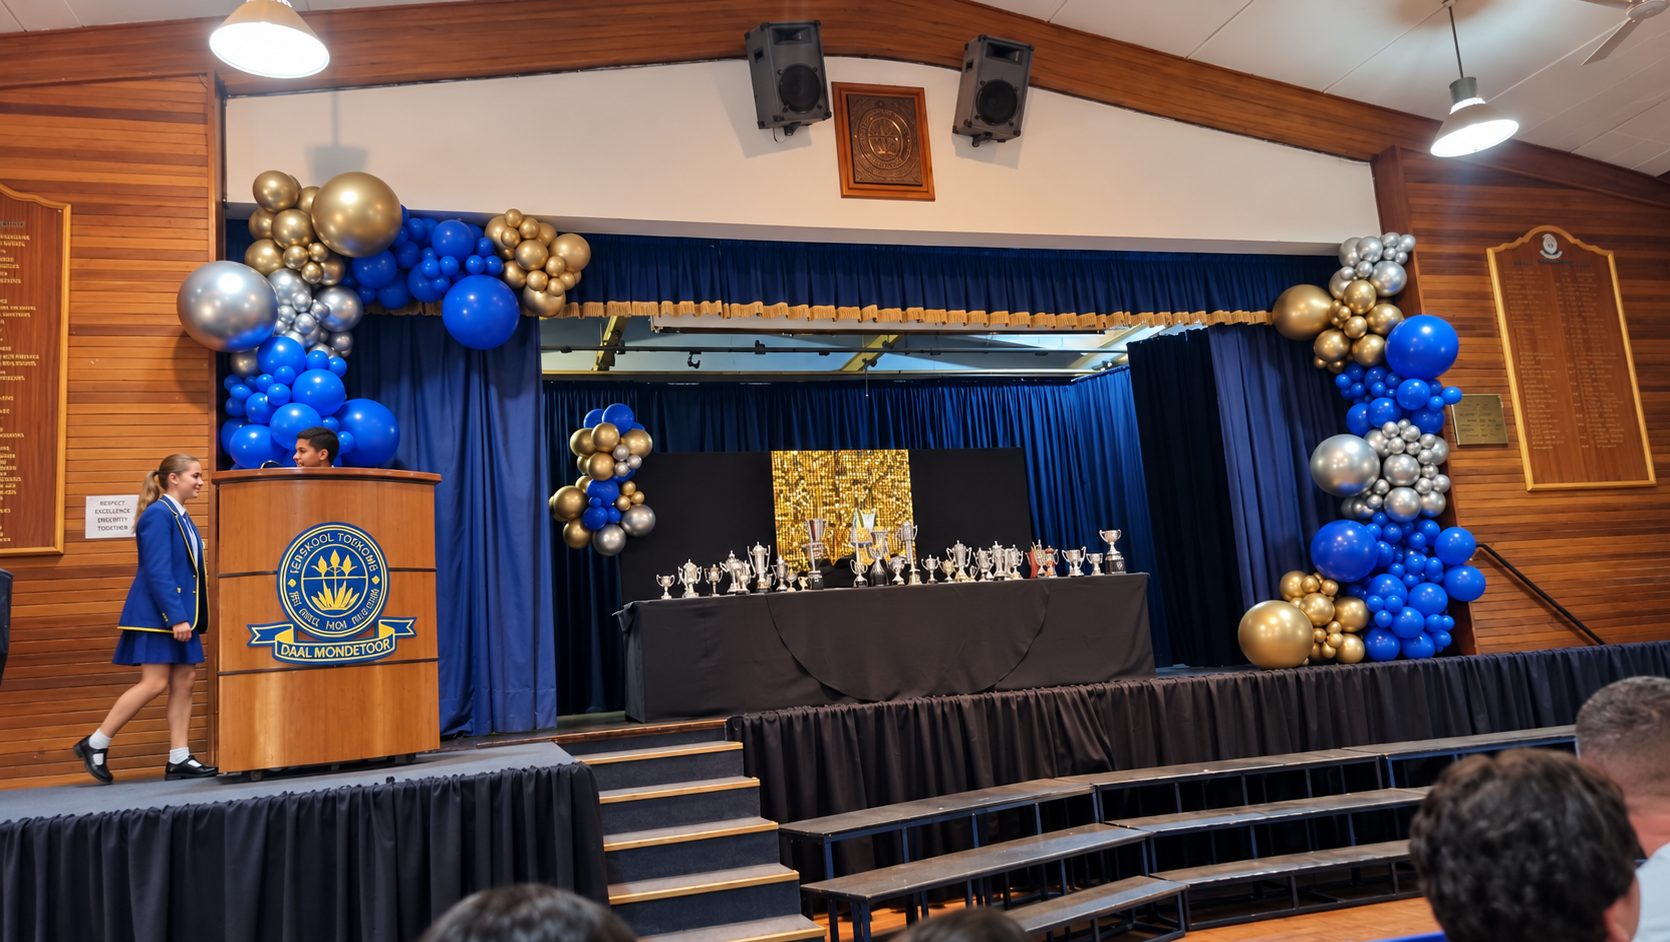
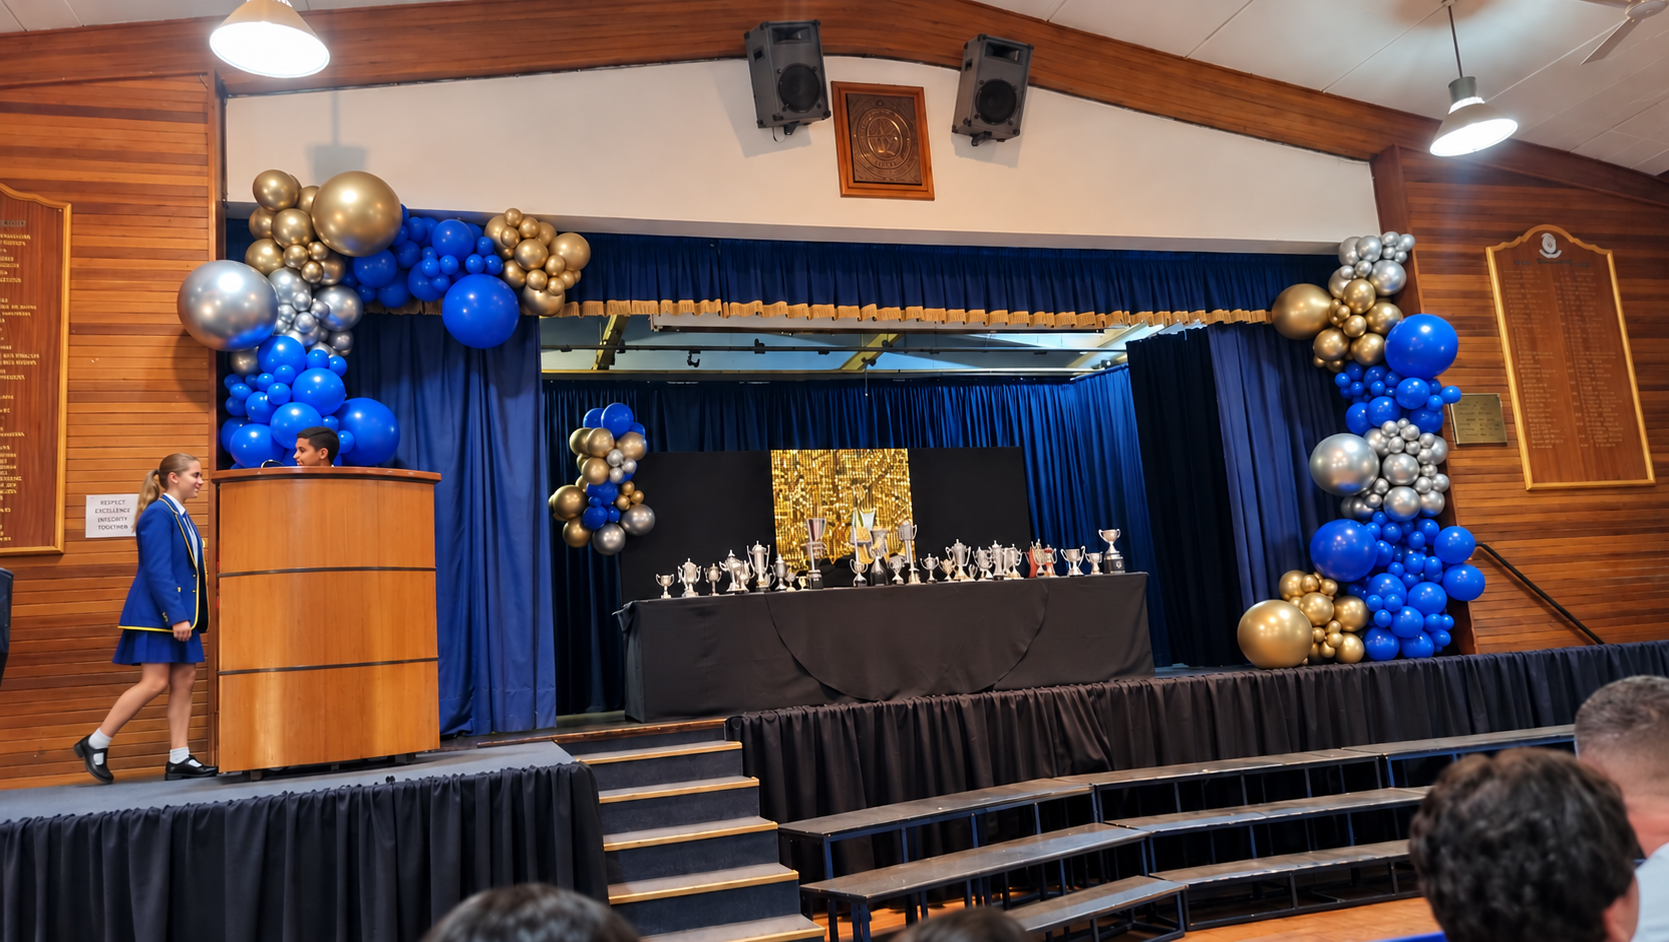
Add team carousel and live school news

diff --git a/styles.css b/styles.css
@@ -42,11 +42,128 @@
 @media(max-width:760px){.hero-kids-framed{height:465px;width:355px;right:50%;bottom:20px;object-fit:cover;object-position:center 45%;border-width:7px;border-radius:46% 46% 22px 22px;transform:translateX(50%)}}
 @media(max-width:430px){.hero-kids-framed{height:410px;width:315px}}
 
-.round-stamp strong{width:100%;place-items:center;transform:none;white-space:nowrap}
-.round-stamp strong small{display:block;white-space:nowrap;text-align:center}
+.round-stamp strong{width:100%;place-items:center;transform:translateX(-8px);white-space:nowrap;font-size:.98rem}
+.round-stamp strong small{display:block;white-space:nowrap;text-align:center;font-size:.58rem}
 .round-stamp span{animation:spin 8s linear infinite}
 @media(prefers-reduced-motion:reduce){.round-stamp span{animation:none}}
+@media(max-width:760px){.round-stamp strong{transform:translateX(-6px);font-size:.8rem}.round-stamp strong small{font-size:.48rem}}
 
 /* Highlight the card that matches the current activity image. */
 .activity-card.is-active{z-index:2;transform:translateX(-7px);box-shadow:0 0 0 4px #fff,0 0 0 8px var(--navy),0 18px 34px rgba(7,52,95,.2)}
 @media(max-width:1000px){.activity-card.is-active{transform:translateY(-5px)}}
+
+/* Meet the Team carousel */
+.team-section{position:relative;overflow:hidden;background:linear-gradient(145deg,#f2f8ff 0%,#fff 48%,#fff8dc 100%);padding-block:110px 95px}
+.team-section .wrap{position:relative;z-index:2}
+.team-heading{display:grid;grid-template-columns:1fr .7fr;gap:70px;align-items:end}
+.team-heading h2 em{color:var(--blue)}
+.team-heading>p{max-width:470px;margin:0 0 8px;color:var(--muted);font-size:1rem;line-height:1.7}
+.team-shape{position:absolute;border-radius:50%;pointer-events:none}
+.team-shape-one{width:320px;height:320px;left:-170px;top:100px;border:3px dashed rgba(18,130,205,.22);animation:spin 30s linear infinite}
+.team-shape-two{width:210px;height:210px;right:-85px;bottom:20px;background:rgba(255,217,41,.28)}
+.team-carousel{position:relative;max-width:1120px;margin:48px auto 0}
+.team-stage{position:relative;height:510px;perspective:1000px;touch-action:pan-y}
+.team-card{position:absolute;left:50%;top:50%;width:300px;height:400px;overflow:hidden;border:7px solid #fff;border-radius:30px;background:var(--navy);opacity:0;transform:translate(-50%,-50%) scale(.55);box-shadow:0 22px 50px rgba(7,52,95,.18);transition:transform .75s cubic-bezier(.2,.75,.2,1),opacity .45s,filter .45s;pointer-events:none;will-change:transform}
+.team-card img{width:100%;height:100%;object-fit:cover;transition:transform 5s ease}
+.team-card:before{content:"";position:absolute;z-index:1;inset:38% 0 0;background:linear-gradient(transparent,rgba(7,35,66,.9))}
+.team-card.is-active{z-index:3;opacity:1;transform:translate(-50%,-50%) scale(1.08);pointer-events:auto;box-shadow:0 0 0 5px var(--yellow),0 32px 70px rgba(7,52,95,.26)}
+.team-card.is-prev{z-index:2;opacity:.76;transform:translate(calc(-50% - 340px),-50%) scale(.79) rotate(-3deg);filter:saturate(.82);pointer-events:auto;cursor:pointer}
+.team-card.is-next{z-index:2;opacity:.76;transform:translate(calc(-50% + 340px),-50%) scale(.79) rotate(3deg);filter:saturate(.82);pointer-events:auto;cursor:pointer}
+.team-card.is-active:hover img{transform:scale(1.045)}
+.team-card-copy{position:absolute;z-index:2;left:0;right:0;bottom:0;padding:55px 22px 22px;color:#fff}
+.team-card-copy small{display:block;margin-bottom:4px;color:var(--yellow);font-size:.65rem;font-weight:900;letter-spacing:.12em;text-transform:uppercase}
+.team-card-copy h3{margin:0;font:700 1.55rem/1.05 "Fredoka",sans-serif}
+.team-card.is-active .team-card-copy h3{font-size:1.85rem}
+.team-featured{position:absolute;z-index:3;left:16px;top:16px;padding:8px 11px;border-radius:999px;background:var(--yellow);color:var(--navy);font-size:.6rem;font-weight:900;letter-spacing:.08em;text-transform:uppercase}
+.team-arrow{position:absolute;z-index:5;top:46%;width:52px;height:52px;border:0;border-radius:50%;background:var(--navy);color:#fff;font-size:1.35rem;cursor:pointer;box-shadow:0 12px 30px rgba(7,52,95,.2);transition:transform .25s,background .25s}
+.team-arrow:hover,.team-arrow:focus-visible{background:var(--blue);transform:scale(1.08)}
+.team-arrow:focus-visible{outline:4px solid var(--yellow);outline-offset:3px}
+.team-prev{left:8px}.team-next{right:8px}
+.team-dots{display:flex;justify-content:center;gap:9px;margin-top:5px}
+.team-dots button{width:10px;height:10px;padding:0;border:0;border-radius:999px;background:rgba(7,52,95,.25);cursor:pointer;transition:width .25s,background .25s}
+.team-dots button.is-active{width:32px;background:var(--blue)}
+.team-note{text-align:center;margin:14px 0 0;color:var(--muted);font-size:.72rem;font-weight:700}
+@media(max-width:900px){
+  .team-card.is-prev{transform:translate(calc(-50% - 245px),-50%) scale(.7) rotate(-3deg)}
+  .team-card.is-next{transform:translate(calc(-50% + 245px),-50%) scale(.7) rotate(3deg)}
+  .team-prev{left:0}.team-next{right:0}
+}
+@media(max-width:760px){
+  .team-section{padding-block:82px 75px}
+  .team-heading{grid-template-columns:1fr;gap:15px;text-align:center}
+  .team-heading>p{margin-inline:auto;font-size:.92rem}
+  .team-stage{height:440px}
+  .team-card{width:255px;height:350px;border-width:6px;border-radius:25px}
+  .team-card.is-active{transform:translate(-50%,-50%) scale(1.04)}
+  .team-card.is-prev{transform:translate(calc(-50% - 180px),-50%) scale(.62) rotate(-3deg)}
+  .team-card.is-next{transform:translate(calc(-50% + 180px),-50%) scale(.62) rotate(3deg)}
+  .team-arrow{top:auto;bottom:-2px;width:46px;height:46px}
+  .team-prev{left:calc(50% - 92px)}.team-next{right:calc(50% - 92px)}
+  .team-dots{margin-top:10px}
+}
+@media(max-width:430px){
+  .team-stage{height:405px}
+  .team-card{width:230px;height:325px}
+  .team-card.is-prev{transform:translate(calc(-50% - 145px),-50%) scale(.56) rotate(-3deg)}
+  .team-card.is-next{transform:translate(calc(-50% + 145px),-50%) scale(.56) rotate(3deg)}
+}
+@media(prefers-reduced-motion:reduce){
+  .team-shape-one{animation:none}.team-card,.team-card img{transition:none}
+}
+
+/* Live Facebook news */
+.facebook-news{position:relative;overflow:hidden;background:var(--navy);color:#fff;padding-bottom:0}
+.facebook-news-grid{position:relative;z-index:2;display:grid;grid-template-columns:.82fr 1.18fr;gap:90px;align-items:center;padding-bottom:105px}
+.facebook-news-copy{position:relative}
+.facebook-news-copy h2{color:#fff;font-size:clamp(3.4rem,5.7vw,5.7rem)}
+.facebook-news-copy h2 em{color:var(--yellow)}
+.facebook-news-copy>p:not(.section-tag):not(.news-live){max-width:540px;margin:26px 0;color:rgba(255,255,255,.7);font-size:1rem;line-height:1.75}
+.news-live{display:inline-flex;align-items:center;gap:9px;margin:0 0 25px;padding:8px 12px;border:1px solid rgba(255,255,255,.18);border-radius:999px;background:rgba(255,255,255,.08);font-size:.68rem;font-weight:900;letter-spacing:.08em;text-transform:uppercase}
+.news-live span,.feed-status i{width:8px;height:8px;border-radius:50%;background:#60dc93;box-shadow:0 0 0 5px rgba(96,220,147,.14);animation:pulseLive 1.8s ease-in-out infinite}
+.news-topics{display:flex;flex-wrap:wrap;gap:8px;margin:0 0 30px}
+.news-topics span{padding:8px 12px;border-radius:10px;background:rgba(87,201,220,.13);border:1px solid rgba(87,201,220,.22);color:#d7f8ff;font-size:.68rem;font-weight:900}
+.news-button{background:var(--yellow);color:var(--navy)}
+.facebook-feed-card{position:relative;max-width:580px;margin-left:auto;padding:16px;border-radius:34px;background:#fff;color:var(--ink);box-shadow:0 35px 85px rgba(0,0,0,.28);transform:rotate(1deg)}
+.facebook-feed-card:before{content:"";position:absolute;z-index:-1;inset:-13px 24px 18px -17px;border:2px dashed rgba(255,217,41,.8);border-radius:38px;transform:rotate(-2deg)}
+.facebook-feed-head{display:grid;grid-template-columns:auto 1fr auto;gap:13px;align-items:center;padding:7px 6px 16px}
+.facebook-mark{width:42px;height:42px;border-radius:13px;background:#1877f2;color:#fff;display:grid;place-items:center;font:800 1.65rem/1 Arial,sans-serif}
+.facebook-feed-head>div{display:grid;line-height:1.2}
+.facebook-feed-head small{color:var(--muted);font-size:.58rem;font-weight:900;letter-spacing:.12em;text-transform:uppercase}
+.facebook-feed-head strong{font:700 1rem "Fredoka",sans-serif;color:var(--navy)}
+.feed-status{display:flex;align-items:center;gap:8px;color:var(--muted);font-size:.62rem;font-weight:900;text-transform:uppercase}
+.feed-status i{display:inline-block;width:7px;height:7px;box-shadow:none}
+.facebook-feed-frame{position:relative;min-height:650px;overflow:hidden;border-radius:22px;background:linear-gradient(135deg,#eef5fb,#fff8e8)}
+.facebook-feed-frame iframe{display:block;width:100%;max-width:500px;min-height:650px;margin-inline:auto;border:0}
+.facebook-feed-card>p{margin:13px 8px 3px;color:var(--muted);text-align:center;font-size:.68rem}
+.facebook-feed-card>p a{color:var(--blue);font-weight:900}
+.news-orbit{position:absolute;border-radius:50%;pointer-events:none}
+.news-orbit-one{width:390px;height:390px;left:-205px;bottom:30px;border:2px dashed rgba(255,255,255,.14);animation:spin 32s linear infinite}
+.news-orbit-two{width:260px;height:260px;right:-105px;top:50px;background:rgba(8,111,194,.25)}
+.news-ticker{position:relative;z-index:2;overflow:hidden;background:var(--yellow);color:var(--navy);padding:18px 0;transform:rotate(-1deg);width:102%;margin-left:-1%}
+.news-ticker>div{display:flex;width:max-content;animation:marquee 26s linear infinite}
+.news-ticker span{padding-right:25px;white-space:nowrap;font:700 1rem "Fredoka",sans-serif;letter-spacing:.06em}
+@keyframes pulseLive{50%{opacity:.55;transform:scale(.78)}}
+@media(max-width:1000px){
+  .facebook-news-grid{grid-template-columns:1fr 1fr;gap:45px}
+  .facebook-feed-card{max-width:530px}
+}
+@media(max-width:760px){
+  .facebook-news-grid{grid-template-columns:1fr;gap:50px;padding-bottom:75px}
+  .facebook-news-copy{text-align:center}
+  .facebook-news-copy>p:not(.section-tag):not(.news-live){margin-inline:auto}
+  .news-topics{justify-content:center}
+  .facebook-feed-card{width:100%;max-width:530px;margin-inline:auto;padding:11px;border-radius:26px;transform:none}
+  .facebook-feed-card:before{inset:-10px 15px 14px -10px;border-radius:30px}
+  .facebook-feed-frame{min-height:610px}
+  .facebook-feed-frame iframe{height:610px;min-height:610px}
+}
+@media(max-width:430px){
+  .facebook-news-copy h2{font-size:3rem}
+  .facebook-feed-head{grid-template-columns:auto 1fr}
+  .feed-status{grid-column:2}
+  .facebook-feed-frame{min-height:570px}
+  .facebook-feed-frame iframe{height:570px;min-height:570px}
+}
+@media(prefers-reduced-motion:reduce){
+  .news-live span,.feed-status i,.news-orbit-one,.news-ticker>div{animation:none}
+}

diff --git a/index.html b/index.html
@@ -9,7 +9,7 @@
   <link rel="preconnect" href="https://fonts.googleapis.com">
   <link rel="preconnect" href="https://fonts.gstatic.com" crossorigin>
   <link href="https://fonts.googleapis.com/css2?family=Fredoka:wght@500;600;700&amp;family=Nunito:wght@400;600;700;800;900&amp;display=swap" rel="stylesheet">
-  <link rel="stylesheet" href="styles.css?v=8">
+  <link rel="stylesheet" href="styles.css?v=11">
 </head>
 <body>
   <a class="skip-link" href="#main">Skip to content</a>
@@ -58,6 +58,38 @@
       <div class="about-copy reveal"><p class="section-tag">Hello, Dallies!</p><h2>A school made for<br><em>growing minds.</em></h2><p class="intro">At Dalmondeor, learning is active, personal and full of possibility.</p><p>We bring strong academics together with genuine care, creative opportunities and a rich school life. Our learners build the skills—and the courage—to take their next step with confidence.</p><ul class="tick-list"><li><span>✓</span> Child-centred teaching</li><li><span>✓</span> Safe, welcoming environment</li><li><span>✓</span> Sport, culture and leadership</li><li><span>✓</span> Strong parent partnership</li></ul><a class="text-button" href="#learning">See how we learn <span>→</span></a></div>
     </div></section>
 
+    <section class="section team-section" id="team" aria-labelledby="team-title">
+      <span class="team-shape team-shape-one" aria-hidden="true"></span><span class="team-shape team-shape-two" aria-hidden="true"></span>
+      <div class="wrap">
+        <div class="team-heading reveal"><div><p class="section-tag">The people behind the learning</p><h2 id="team-title">Meet the <em>team.</em></h2></div><p>Caring educators who help every learner feel known, supported and ready to grow.</p></div>
+        <div class="team-carousel reveal" aria-roledescription="carousel" aria-label="School leadership and teaching team">
+          <button class="team-arrow team-prev" type="button" aria-label="Show previous team member">←</button>
+          <div class="team-stage" aria-live="off">
+            <article class="team-card is-active" data-team-index="0" role="button" tabindex="0" aria-label="Show principal profile" aria-current="true">
+              <img src="assets/team-teacher-two-sample.png" alt="Sample portrait for Principal Mr Van Heerden" loading="lazy">
+              <span class="team-featured">School leadership</span>
+              <div class="team-card-copy"><small>Principal</small><h3>Mr Van Heerden</h3></div>
+            </article>
+            <article class="team-card is-next" data-team-index="1" role="button" tabindex="0" aria-label="Show Mrs Van Rensburg's profile" aria-current="false">
+              <img src="assets/team-principal-sample.png" alt="Sample portrait for Senior Primary teacher Mrs Van Rensburg" loading="lazy">
+              <div class="team-card-copy"><small>Senior Primary</small><h3>Mrs Van Rensburg</h3></div>
+            </article>
+            <article class="team-card is-prev" data-team-index="2" role="button" tabindex="0" aria-label="Show Mrs Jones's profile" aria-current="false">
+              <img src="assets/team-teacher-one-sample.png" alt="Sample portrait for Foundation Phase teacher Mrs Jones" loading="lazy">
+              <div class="team-card-copy"><small>Foundation Phase</small><h3>Mrs Jones</h3></div>
+            </article>
+          </div>
+          <button class="team-arrow team-next" type="button" aria-label="Show next team member">→</button>
+          <div class="team-dots" aria-label="Choose a team member">
+            <button class="is-active" type="button" aria-label="Show the principal" aria-pressed="true"></button>
+            <button type="button" aria-label="Show Mrs Van Rensburg" aria-pressed="false"></button>
+            <button type="button" aria-label="Show Mrs Jones" aria-pressed="false"></button>
+          </div>
+          <p class="team-note">Sample portraits — replace with official staff photos when ready.</p>
+        </div>
+      </div>
+    </section>
+
     <section class="section learning" id="learning"><div class="learning-shape shape-a"></div><div class="learning-shape shape-b"></div><div class="wrap">
       <div class="section-heading center reveal"><p class="section-tag light">Our learning journey</p><h2>Room to discover.<br><em>Support to thrive.</em></h2><p>Choose a phase to see how learning grows with your child.</p></div>
       <div class="phase-tabs reveal" role="tablist" aria-label="School phases"><button class="phase-tab active" type="button" role="tab" aria-selected="true" data-phase="foundation">Foundation <span>Grade R–3</span></button><button class="phase-tab" type="button" role="tab" aria-selected="false" data-phase="intermediate">Intermediate <span>Grade 4–6</span></button><button class="phase-tab" type="button" role="tab" aria-selected="false" data-phase="senior">Senior Primary <span>Grade 7</span></button></div>
@@ -79,7 +111,7 @@
             <img class="culture-slide" src="assets/music-choir.png?v=2" alt="Dalmondeor learners performing together on stage">
             <img class="culture-slide" src="assets/culture-arts-achievement.png?v=1" alt="A Dalmondeor learner celebrating an arts achievement" loading="lazy">
             <img class="culture-slide leadership-slide" src="assets/service-leadership.png?v=1" alt="Dalmondeor learner leaders gathered in the school courtyard">
-            <img class="culture-slide leadership-slide" src="assets/service-awards.png?v=1" alt="Dalmondeor learner leaders presenting at the school awards ceremony" loading="lazy">
+            <img class="culture-slide leadership-slide" src="assets/service-awards.png?v=2" alt="Dalmondeor learner leaders presenting at the school awards ceremony" loading="lazy">
           </div>
           <div class="activity-overlay"><span>01</span><div><small id="activity-kicker">Move together</small><h3 id="activity-title">Sports</h3></div><b>↗</b></div>
           <div class="sports-dots" aria-label="Sports image selector"><button class="active" type="button" aria-label="Show hockey image" aria-pressed="true"></button><button type="button" aria-label="Show cricket image" aria-pressed="false"></button><button type="button" aria-label="Show netball image" aria-pressed="false"></button><button type="button" aria-label="Show rugby image" aria-pressed="false"></button><button type="button" aria-label="Show athletics image" aria-pressed="false"></button></div>
@@ -91,6 +123,37 @@
         </div>
       </div>
     </div></section>
+
+    <section class="section facebook-news" id="news" aria-labelledby="news-title">
+      <span class="news-orbit news-orbit-one" aria-hidden="true"></span><span class="news-orbit news-orbit-two" aria-hidden="true"></span>
+      <div class="wrap facebook-news-grid">
+        <div class="facebook-news-copy reveal">
+          <p class="news-live"><span aria-hidden="true"></span> Live from Facebook</p>
+          <p class="section-tag light">The latest from Dalmondeor</p>
+          <h2 id="news-title">School news,<br><em>as it happens.</em></h2>
+          <p>See recent announcements, celebrations, events and everyday moments from the official Dalmondeor Dallies Facebook page.</p>
+          <div class="news-topics" aria-label="Facebook update topics"><span>Announcements</span><span>Events</span><span>Dallies moments</span></div>
+          <a class="button news-button" href="https://www.facebook.com/DalmondeorDallies/" target="_blank" rel="noreferrer">Open Facebook <span>↗</span></a>
+        </div>
+        <div class="facebook-feed-card reveal">
+          <div class="facebook-feed-head"><span class="facebook-mark" aria-hidden="true">f</span><div><small>Latest updates</small><strong>Dalmondeor Dallies</strong></div><span class="feed-status"><i aria-hidden="true"></i> Live feed</span></div>
+          <div class="facebook-feed-frame">
+            <iframe
+              title="Latest posts from the Dalmondeor Dallies Facebook page"
+              src="https://www.facebook.com/plugins/page.php?href=https%3A%2F%2Fwww.facebook.com%2FDalmondeorDallies%2F&amp;tabs=timeline&amp;width=500&amp;height=650&amp;small_header=false&amp;adapt_container_width=true&amp;hide_cover=false&amp;show_facepile=true&amp;appId"
+              width="500"
+              height="650"
+              scrolling="no"
+              frameborder="0"
+              allowfullscreen
+              allow="autoplay; clipboard-write; encrypted-media; picture-in-picture; web-share"
+              loading="lazy"></iframe>
+          </div>
+          <p>If the feed is hidden by your browser, <a href="https://www.facebook.com/DalmondeorDallies/" target="_blank" rel="noreferrer">view the latest posts on Facebook ↗</a></p>
+        </div>
+      </div>
+      <div class="news-ticker" aria-hidden="true"><div><span>NEWS • CELEBRATIONS • EVENTS • ANNOUNCEMENTS • DALLIES MOMENTS • </span><span>NEWS • CELEBRATIONS • EVENTS • ANNOUNCEMENTS • DALLIES MOMENTS • </span></div></div>
+    </section>
 
     <section class="section why" id="parents"><div class="wrap why-grid">
       <div class="why-copy reveal"><p class="section-tag light">Why families choose us</p><h2>One school.<br><em>A whole community.</em></h2><div class="why-accordion"><details open><summary><span>01</span>Teaching that sees the child<b>+</b></summary><p>Clear expectations, personal attention and learning designed to build confidence as well as knowledge.</p></details><details><summary><span>02</span>A place to feel at home<b>+</b></summary><p>Our school culture is grounded in respect, belonging and partnership with families.</p></details><details><summary><span>03</span>Growth beyond academics<b>+</b></summary><p>Sport, culture, creativity and leadership help every learner discover their strengths.</p></details></div></div>
@@ -110,6 +173,6 @@
   </main>
 
   <footer class="footer"><div class="wrap footer-main"><div class="footer-name"><span>DALMONDEOR</span><p>Ons is die toekoms.<br>We are the future.</p></div><div class="footer-nav"><a href="#about">Our school</a><a href="#learning">Learning</a><a href="#activities">Activities</a><a href="#admissions">Admissions</a></div><a class="back-top" href="#top" aria-label="Back to top">↑</a></div><div class="wrap footer-bottom"><p>© <span id="year"></span> Laerskool Dalmondeor Primary</p><p>Mondeor • Johannesburg South</p></div></footer>
-  <script src="script.js?v=8"></script>
+  <script src="script.js?v=9"></script>
 </body>
 </html>

diff --git a/script.js b/script.js
@@ -218,4 +218,74 @@ activityTriggers.forEach(trigger => {
 showActivitySequenceStep(0);
 startActivityRotation();
 
+const teamCarousel = document.querySelector('.team-carousel');
+const teamStage = document.querySelector('.team-stage');
+const teamCards = [...document.querySelectorAll('.team-card')];
+const teamDots = [...document.querySelectorAll('.team-dots button')];
+const teamPrev = document.querySelector('.team-prev');
+const teamNext = document.querySelector('.team-next');
+let teamIndex = 0;
+let teamTimer;
+let teamPointerStart = 0;
+const teamReducedMotion = window.matchMedia('(prefers-reduced-motion: reduce)').matches;
+
+function showTeamMember(index) {
+  if (!teamCards.length) return;
+  teamIndex = (index + teamCards.length) % teamCards.length;
+  teamCards.forEach((card, cardIndex) => {
+    const position = (cardIndex - teamIndex + teamCards.length) % teamCards.length;
+    card.classList.toggle('is-active', position === 0);
+    card.classList.toggle('is-next', position === 1);
+    card.classList.toggle('is-prev', position === teamCards.length - 1);
+    card.setAttribute('aria-current', String(position === 0));
+  });
+  teamDots.forEach((dot, dotIndex) => {
+    const selected = dotIndex === teamIndex;
+    dot.classList.toggle('is-active', selected);
+    dot.setAttribute('aria-pressed', String(selected));
+  });
+}
+
+function startTeamCarousel() {
+  clearInterval(teamTimer);
+  if (!teamReducedMotion && teamCards.length > 1) {
+    teamTimer = setInterval(() => showTeamMember(teamIndex + 1), 5000);
+  }
+}
+
+function selectTeamMember(index) {
+  showTeamMember(index);
+  startTeamCarousel();
+}
+
+teamPrev?.addEventListener('click', () => selectTeamMember(teamIndex - 1));
+teamNext?.addEventListener('click', () => selectTeamMember(teamIndex + 1));
+teamDots.forEach((dot, index) => dot.addEventListener('click', () => selectTeamMember(index)));
+teamCards.forEach((card, index) => {
+  card.addEventListener('click', () => {
+    if (index !== teamIndex) selectTeamMember(index);
+  });
+  card.addEventListener('keydown', event => {
+    if ((event.key === 'Enter' || event.key === ' ') && index !== teamIndex) {
+      event.preventDefault();
+      selectTeamMember(index);
+    }
+  });
+});
+teamCarousel?.addEventListener('mouseenter', () => clearInterval(teamTimer));
+teamCarousel?.addEventListener('mouseleave', startTeamCarousel);
+teamCarousel?.addEventListener('focusin', () => clearInterval(teamTimer));
+teamCarousel?.addEventListener('focusout', event => {
+  if (!teamCarousel.contains(event.relatedTarget)) startTeamCarousel();
+});
+teamStage?.addEventListener('pointerdown', event => {
+  teamPointerStart = event.clientX;
+});
+teamStage?.addEventListener('pointerup', event => {
+  const distance = event.clientX - teamPointerStart;
+  if (Math.abs(distance) > 45) selectTeamMember(teamIndex + (distance < 0 ? 1 : -1));
+});
+showTeamMember(0);
+startTeamCarousel();
+
 document.getElementById('year').textContent = new Date().getFullYear();
